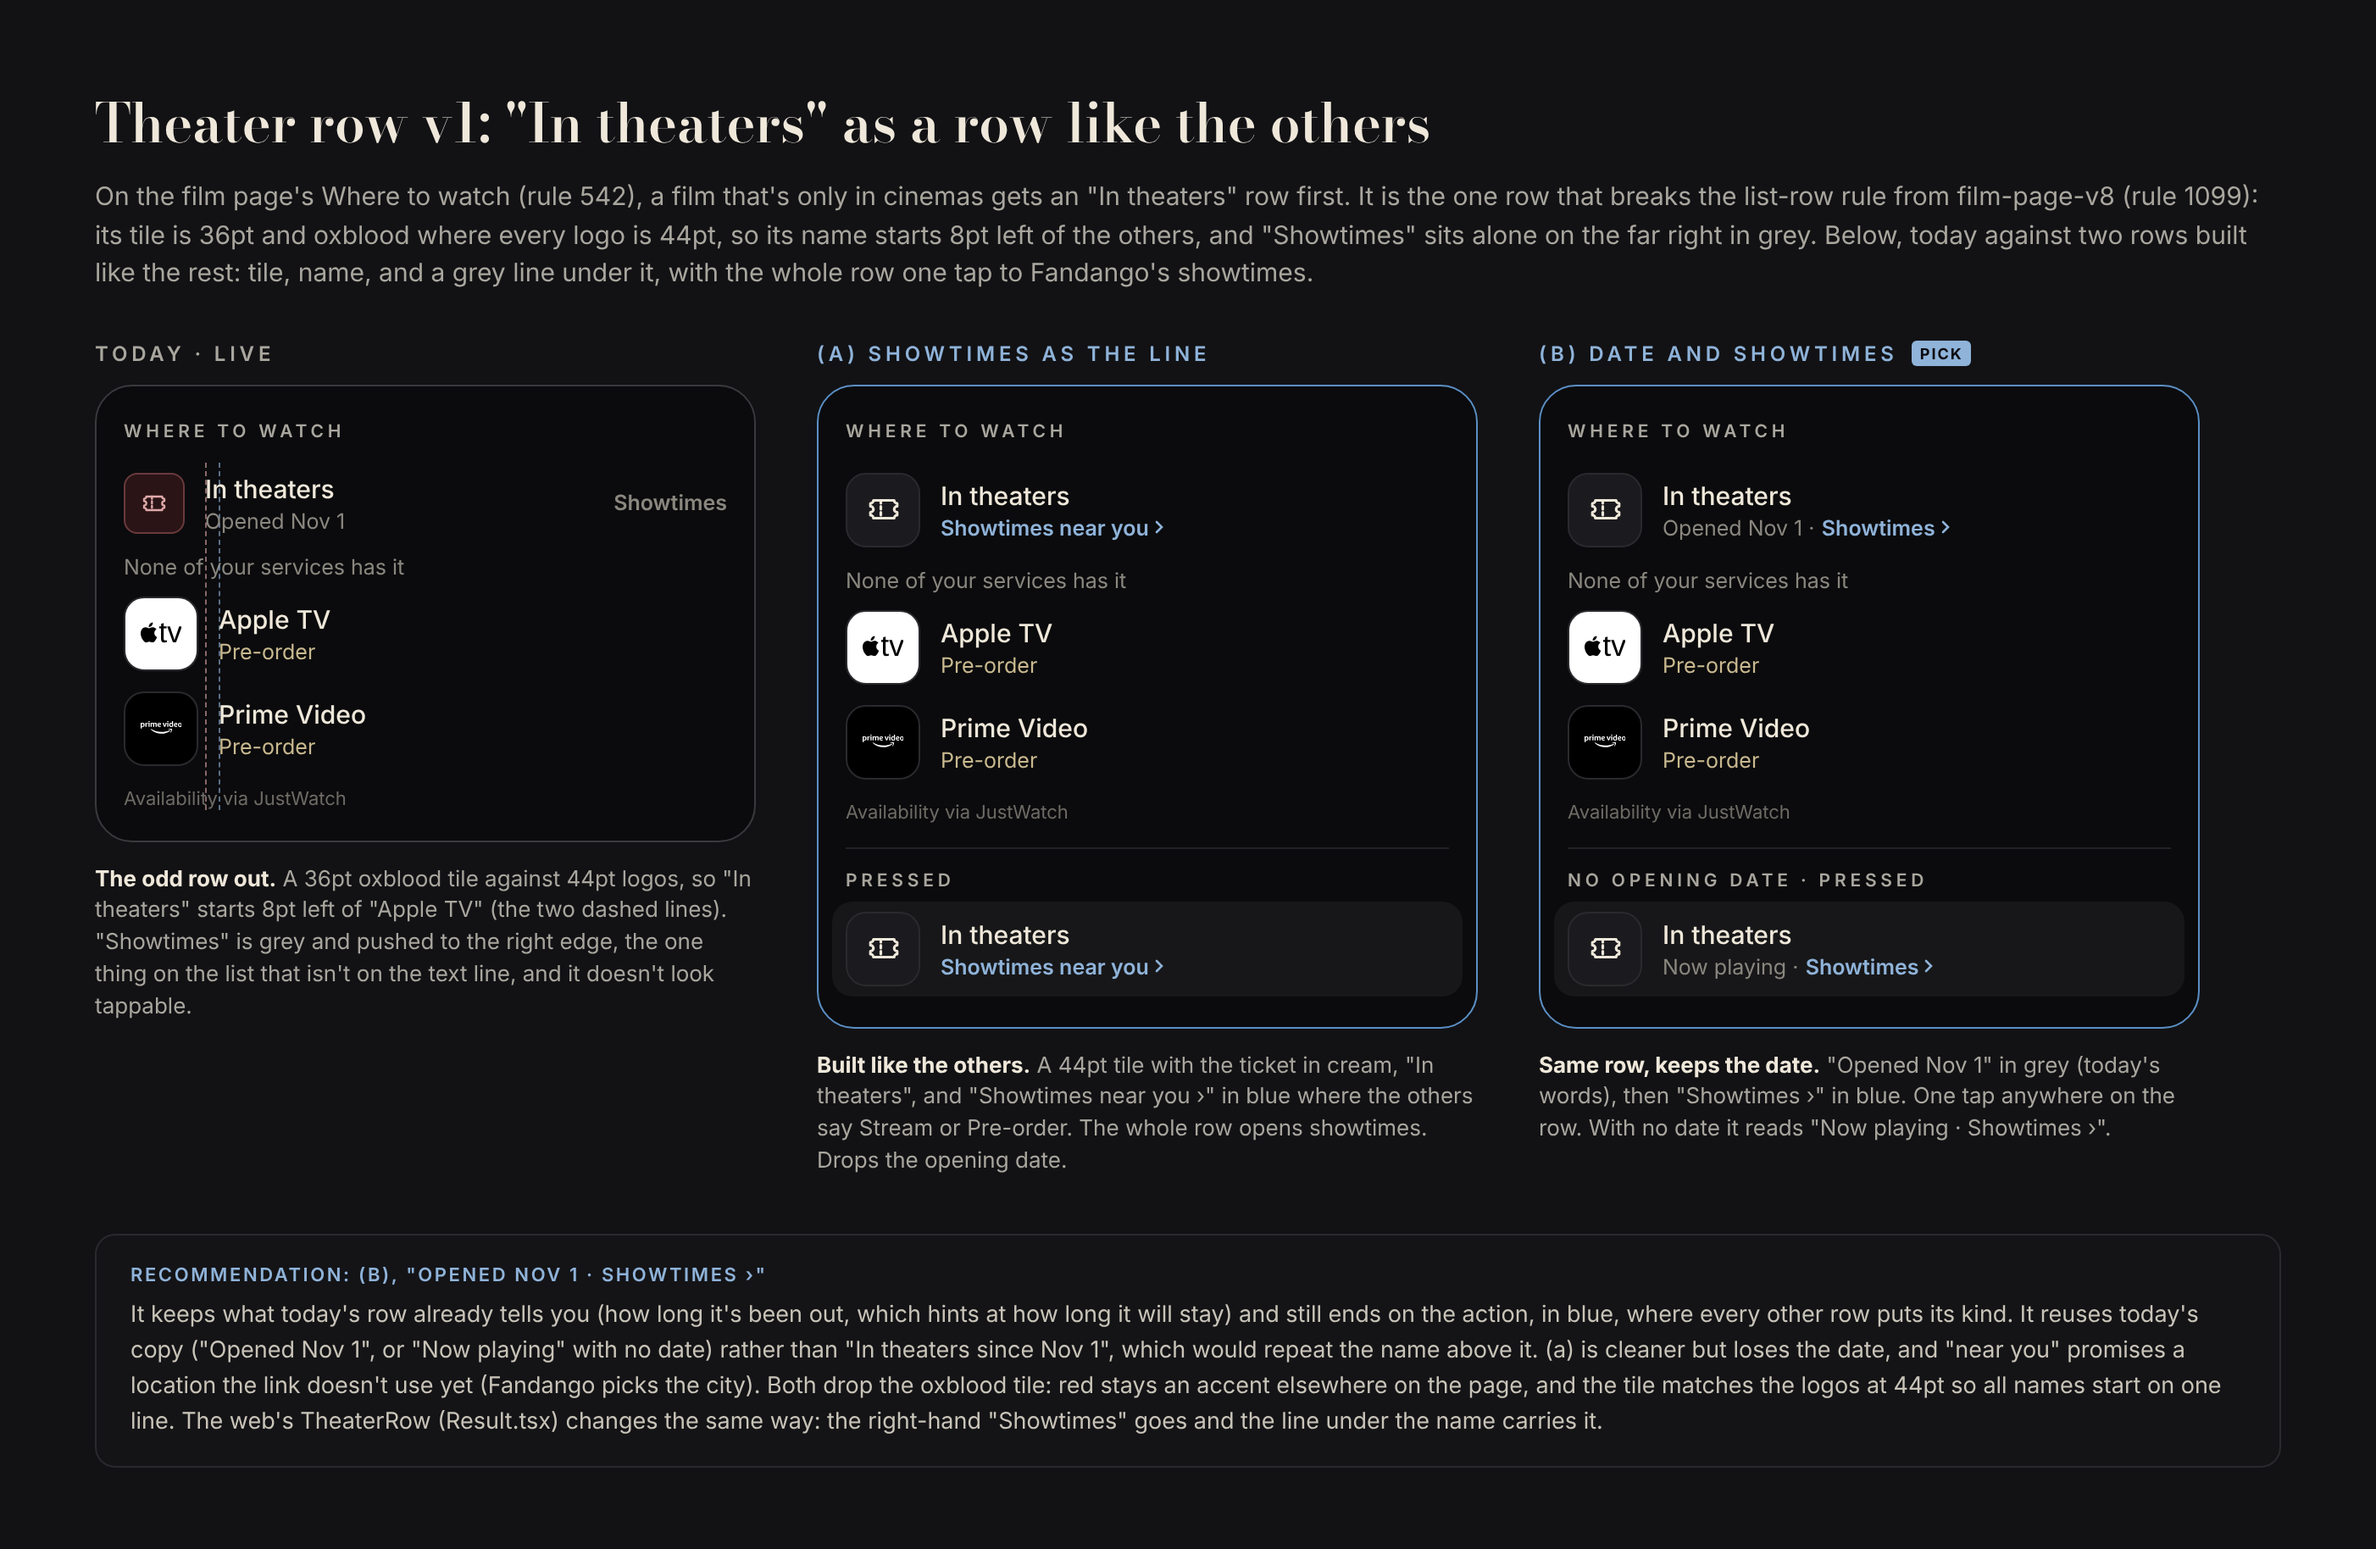
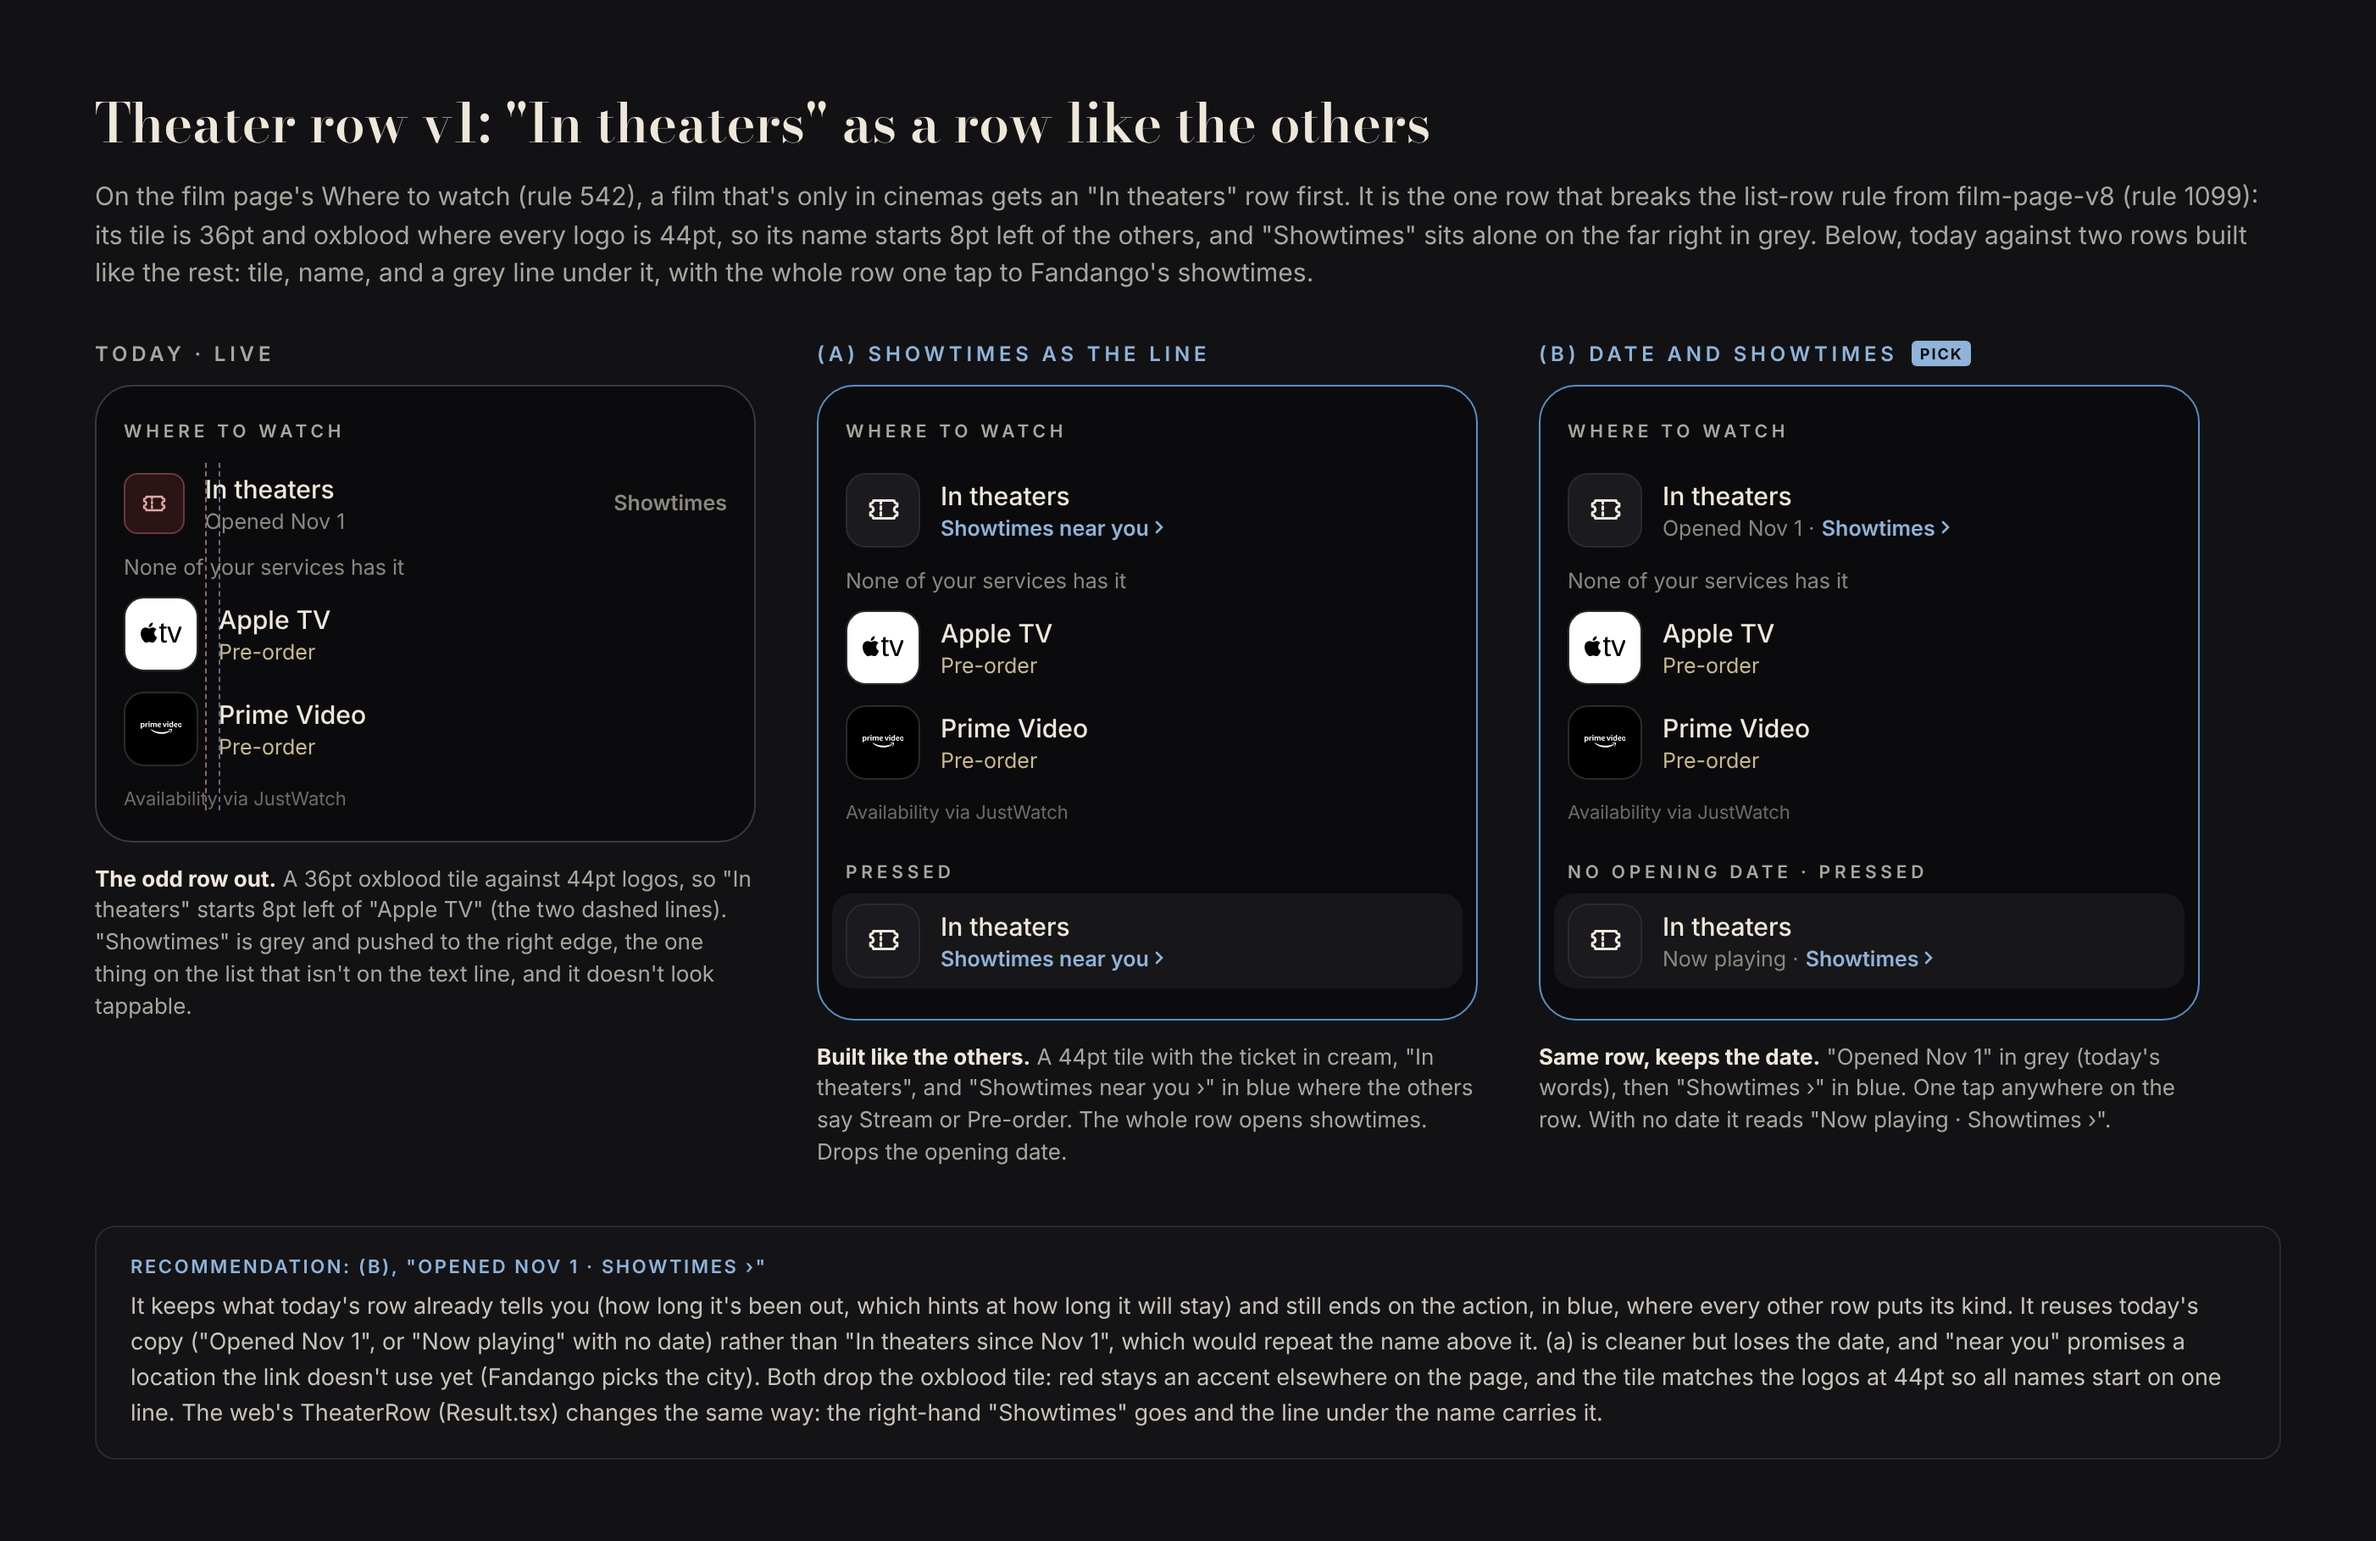
Mocks: profile goal v1 (compact goal in the header) and theater row v1
Claude-Session: https://claude.ai/code/session_013WRDCFXH8nihP92apJAVW7

diff --git a/mockups/journeys/theater-row-v1.html b/mockups/journeys/theater-row-v1.html
@@ -28,7 +28,7 @@
 .guide{position:absolute;top:0;bottom:0;border-left:1px dashed rgba(143,179,217,.6)}
 .cl{position:absolute;font:600 10px Inter;color:#0B0B0D;background:#8FB3D9;border-radius:4px;padding:2px 6px;white-space:nowrap;z-index:3}
 .rec{display:inline-block;font:700 9px Inter;letter-spacing:1px;text-transform:uppercase;color:#0B0B0D;background:#8FB3D9;border-radius:3px;padding:2px 5px;margin-left:8px;vertical-align:1px}
-.mini{margin-top:14px;border-top:1px solid #222226;padding-top:12px}
+.mini{margin-top:22px}
 .mini .lab{margin-bottom:6px}
 </style></head><body>
 <h1>Theater row v1: "In theaters" as a row like the others</h1>
